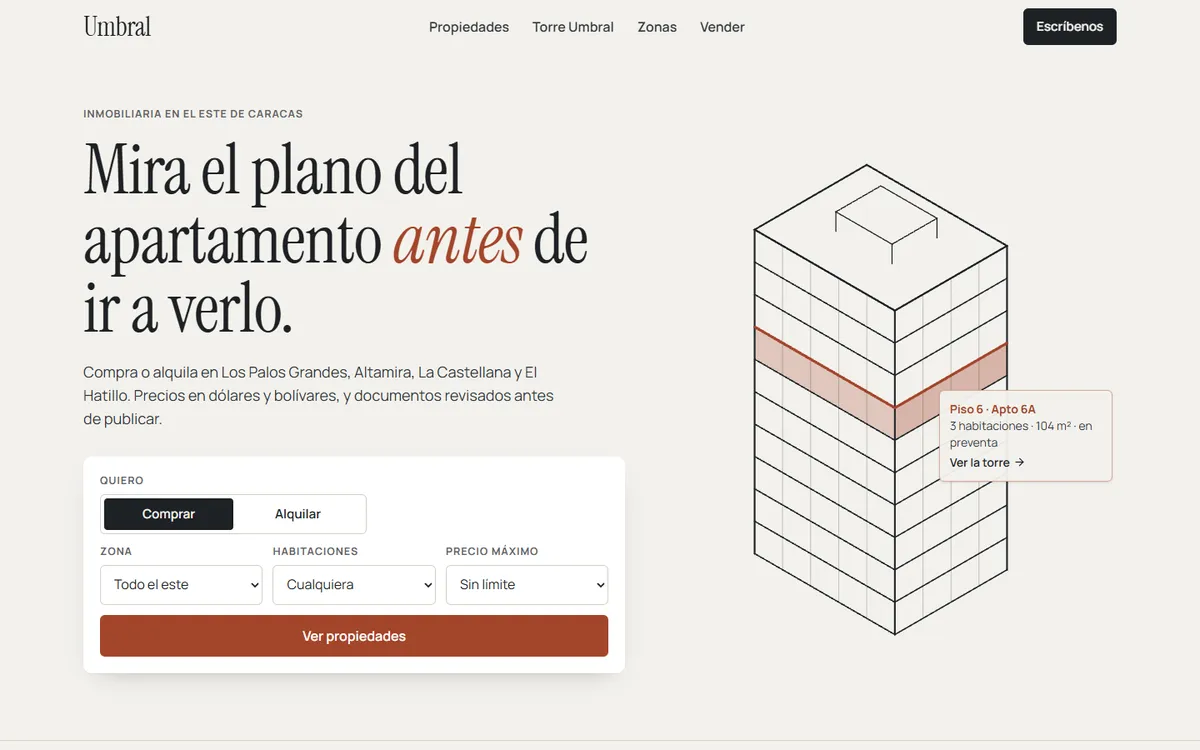
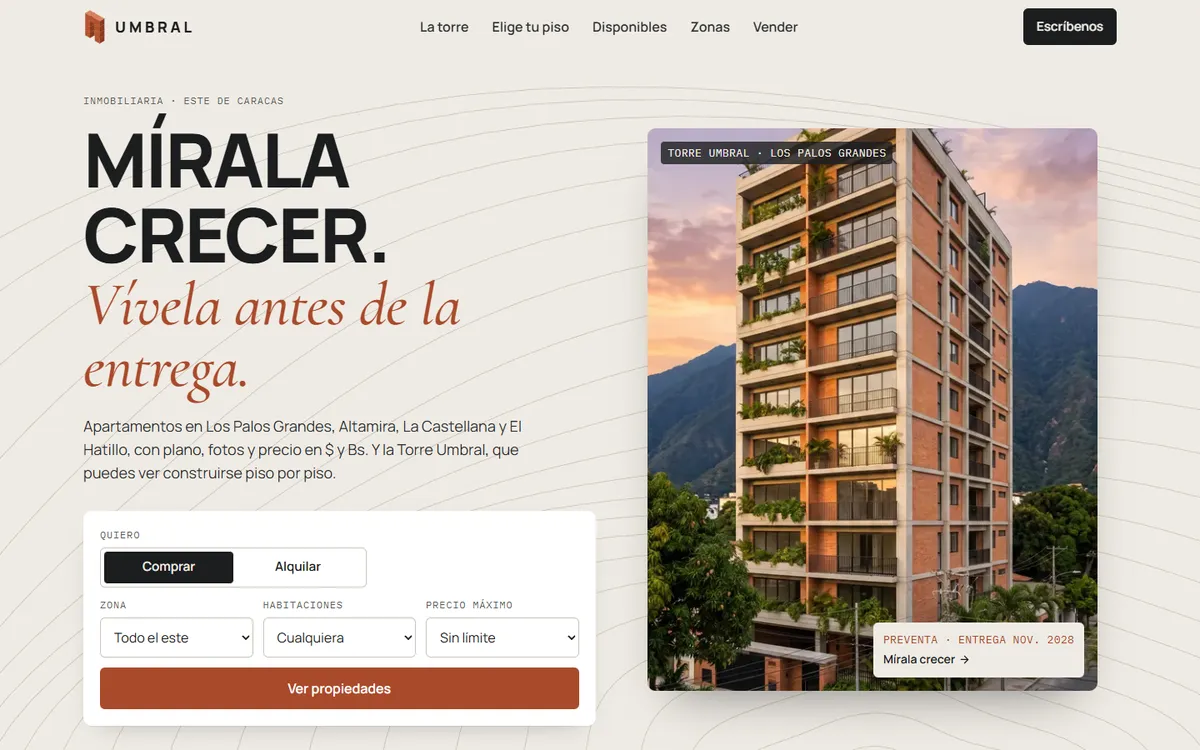
Trabajos: Goldhour y Umbral a lo ancho, el resto en filas parejas; teclado sin desborde en tablet; Umbral v2

diff --git a/index.html b/index.html
@@ -56,9 +56,9 @@
 <section class="trabajos" id="trabajos">
 <h2 class="seccion__titulo">Trabajos <em>recientes</em></h2>
 <div class="trabajos__lista"> 
-
-  <article class="tarjeta tarjeta--real">
+  <article class="tarjeta tarjeta--real tarjeta--ancha">
 <img class="tarjeta__foto" src="img/trabajos/goldhour.webp" alt="Página de inicio de Goldhour" loading="lazy">
+<div class="tarjeta__cuerpo">
 <p class="tarjeta__origen">Negocio real · mi perfumería</p>
 <p class="tarjeta__tipo"> Tienda online · Astro y Supabase</p>
 <h3 class="tarjeta__nombre">Goldhour</h3>
@@ -68,8 +68,22 @@
 <dt>Ahora</dt><dd>El pedido llega armado y la portada carga en 1,1&nbsp;s con datos móviles.</dd>
 </dl>
 <a class="tarjeta__enlace" href="https://goldhourparfums.vercel.app" target="_blank" rel="noopener">Ver la web →</a>
+</div>
 </article>
-
+<article class="tarjeta tarjeta--ancha">
+<img class="tarjeta__foto" src="img/trabajos/umbral.webp" alt="Página de inicio de Umbral, inmobiliaria, con la torre de ladrillo al atardecer" loading="lazy">
+<div class="tarjeta__cuerpo">
+<p class="tarjeta__origen">Proyecto de muestra</p>
+<p class="tarjeta__tipo">Inmobiliaria · React y video con IA</p>
+<h3 class="tarjeta__nombre">Umbral</h3>
+<dl class="caso">
+<dt>Reto</dt><dd>Vender apartamentos en preventa a quien todavía no puede ver el edificio.</dd>
+<dt>Hice</dt><dd>La obra que crece con el scroll, una vuelta a la torre donde se marca el piso que eliges, y plano, fotos y cuotas de cada apartamento.</dd>
+<dt>Ahora</dt><dd>El comprador ve la torre, su piso y lo que paga al mes; carga en 1,7&nbsp;s con 4G lenta.</dd>
+</dl>
+<a class="tarjeta__enlace" href="https://umbral-caracas.vercel.app" target="_blank" rel="noopener">Ver la web →</a>
+</div>
+</article>
 <article class="tarjeta">
 <img class="tarjeta__foto" src="img/trabajos/carbon-black.webp" alt="Página de inicio de Carbon Black" loading="lazy">
 <p class="tarjeta__origen">Proyecto de muestra</p>
@@ -82,7 +96,6 @@
 </dl>
 <a class="tarjeta__enlace" href="https://carbon-black-parrilla.vercel.app" target="_blank" rel="noopener">Ver la web →</a>
 </article>
-
 <article class="tarjeta">
 <img class="tarjeta__foto" src="img/trabajos/kalle.webp" alt="Página de inicio de KALLE" loading="lazy">
 <p class="tarjeta__origen">Proyecto de muestra</p>
@@ -95,7 +108,6 @@
 </dl>
 <a class="tarjeta__enlace" href="https://kalle-tienda.vercel.app" target="_blank" rel="noopener">Ver la web →</a>
 </article>
-
 <article class="tarjeta">
 <img class="tarjeta__foto" src="img/trabajos/filo.webp" alt="Página de inicio de FILO" loading="lazy">
 <p class="tarjeta__origen">Proyecto de muestra</p>
@@ -108,8 +120,7 @@
 </dl>
 <a class="tarjeta__enlace" href="https://filo-barberia-caracas.vercel.app" target="_blank" rel="noopener">Ver la web →</a>
 </article>
-
-<article class="tarjeta">
+<article class="tarjeta tarjeta--centro">
 <img class="tarjeta__foto" src="img/trabajos/esmalte.webp" alt="Página de inicio de la clínica dental" loading="lazy">
 <p class="tarjeta__origen">Proyecto de muestra</p>
 <p class="tarjeta__tipo">Clínica dental · React y Tailwind</p>
@@ -124,7 +135,6 @@
 <a class="tarjeta__enlace" href="https://esmalte-caracas.vercel.app/panel.html" target="_blank" rel="noopener">Ver el panel →</a>
 </p>
 </article>
-
 <article class="tarjeta">
 <img class="tarjeta__foto" src="img/trabajos/carga.webp" alt="Página de inicio de CARGA, gimnasio" loading="lazy">
 <div class="tarjeta__cuerpo">
@@ -137,21 +147,6 @@
 <dt>Ahora</dt><dd>La persona llega sabiendo qué clase y qué plan quiere; carga en 1,5&nbsp;s.</dd>
 </dl>
 <a class="tarjeta__enlace" href="https://carga-gym.vercel.app" target="_blank" rel="noopener">Ver la web →</a>
-</div>
-</article>
-
-<article class="tarjeta tarjeta--ancha">
-<img class="tarjeta__foto" src="img/trabajos/umbral.webp" alt="Página de inicio de Umbral, inmobiliaria, con un edificio dibujado en líneas" loading="lazy">
-<div class="tarjeta__cuerpo">
-<p class="tarjeta__origen">Proyecto de muestra</p>
-<p class="tarjeta__tipo">Inmobiliaria · React y 3D con Three.js</p>
-<h3 class="tarjeta__nombre">Umbral</h3>
-<dl class="caso">
-<dt>Reto</dt><dd>Que el comprador entienda un apartamento en preventa sin ir a verlo, y que el 3D no estorbe en el teléfono.</dd>
-<dt>Hice</dt><dd>Un buscador por zona y precio, una torre en 3D donde eliges piso y ves el plano del apartamento, y una calculadora de inicial y cuotas.</dd>
-<dt>Ahora</dt><dd>Cada propiedad muestra plano y precio en $ y Bs; carga en 1,9&nbsp;s con 4G lenta.</dd>
-</dl>
-<a class="tarjeta__enlace" href="https://umbral-caracas.vercel.app" target="_blank" rel="noopener">Ver la web →</a>
 </div>
 </article>
 

diff --git a/css/estilos.css b/css/estilos.css
@@ -140,10 +140,18 @@ display: grid;
 grid-template-columns: repeat(auto-fit, minmax(300px, 1fr));
 gap: 24px;
 }
+/* Tablet: destacadas a lo ancho, el resto de a dos y la última sola, centrada */
+@media (min-width: 680px) and (max-width: 999px) {
+.trabajos__lista { grid-template-columns: repeat(4, minmax(0, 1fr)); }
+.trabajos__lista > .tarjeta { grid-column: span 2; }
+.trabajos__lista > .tarjeta--ancha { grid-column: 1 / -1; }
+.trabajos__lista > .tarjeta:last-child:nth-child(odd) { grid-column: 2 / span 2; }
+}
+/* Escritorio: las dos destacadas a lo ancho y el resto en filas parejas de 3 (la última, centrada) */
 @media (min-width: 1000px) {
-.trabajos__lista { grid-template-columns: repeat(3, minmax(0, 1fr)); }
-.tarjeta--real { grid-column: span 2; }
-.tarjeta--real .tarjeta__foto { aspect-ratio: 16 / 7.4; }
+.trabajos__lista { grid-template-columns: repeat(6, minmax(0, 1fr)); }
+.trabajos__lista > .tarjeta { grid-column: span 2; }
+.trabajos__lista > .tarjeta--centro { grid-column: 2 / span 2; }
 }
 .tarjeta {
   background: var(--fondo-2);
@@ -351,6 +359,9 @@ transition: opacity 0.6s, visibility 0.6s;}
 .preguntas details p { margin: 0 0 22px; max-width: 42rem; color: var(--texto-2); }
 
 @media (max-width: 900px) {
+  /* Tablet: el teclado 3D va debajo del texto; al lado se salía de la pantalla */
+  .tecnologias { grid-template-columns: 1fr; }
+  .teclado { width: min(74%, 420px); }
   .paquetes { grid-template-columns: 1fr; }
   .paquete, .paquete + .paquete { padding: 28px 0 32px; border-left: 0; }
   .paquete + .paquete { border-top: 1px solid var(--linea); }
@@ -416,7 +427,7 @@ main > section { margin-inline: auto; }
 
 /* Tarjeta ancha: ocupa toda la fila con la foto al lado */
 @media (min-width: 1000px) {
-  .tarjeta--ancha { grid-column: 1 / -1; display: grid; grid-template-columns: 1.2fr 1fr; }
+  .trabajos__lista > .tarjeta--ancha { grid-column: 1 / -1; display: grid; grid-template-columns: 1.2fr 1fr; }
   .tarjeta--ancha .tarjeta__foto { height: 100%; aspect-ratio: auto; }
   .tarjeta--ancha .tarjeta__cuerpo { padding-bottom: 8px; align-self: center; }
 }
